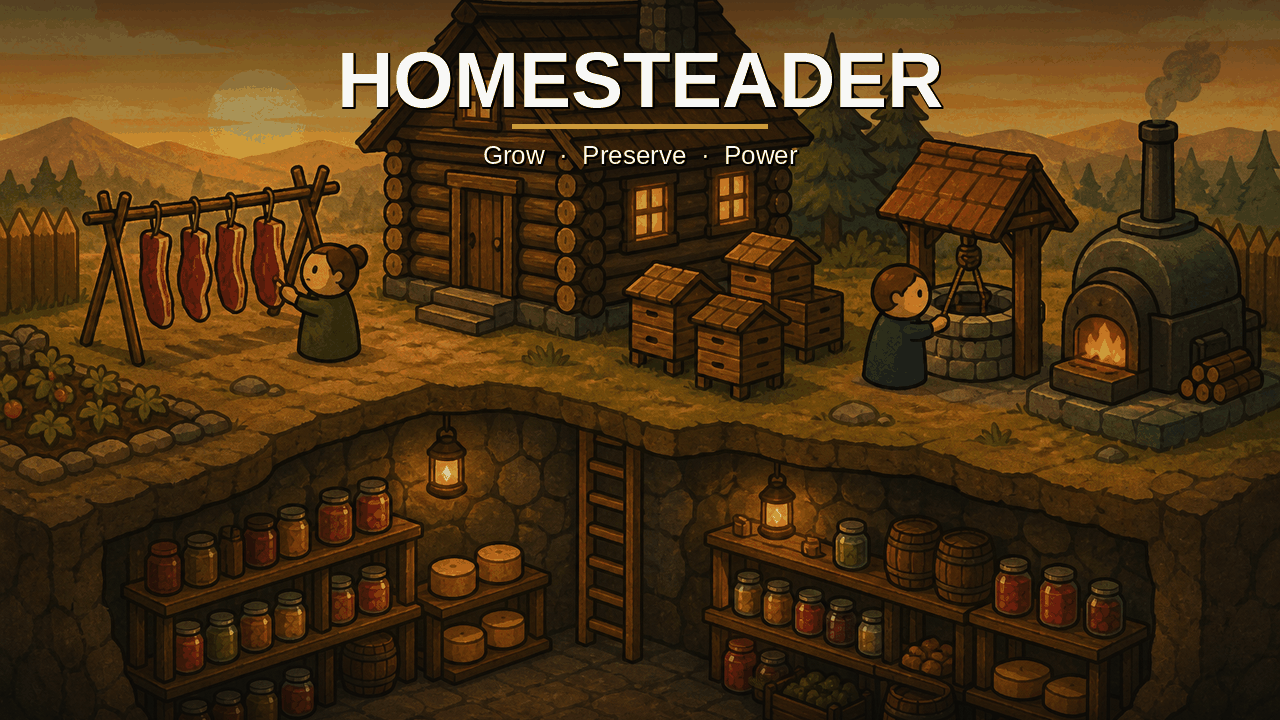
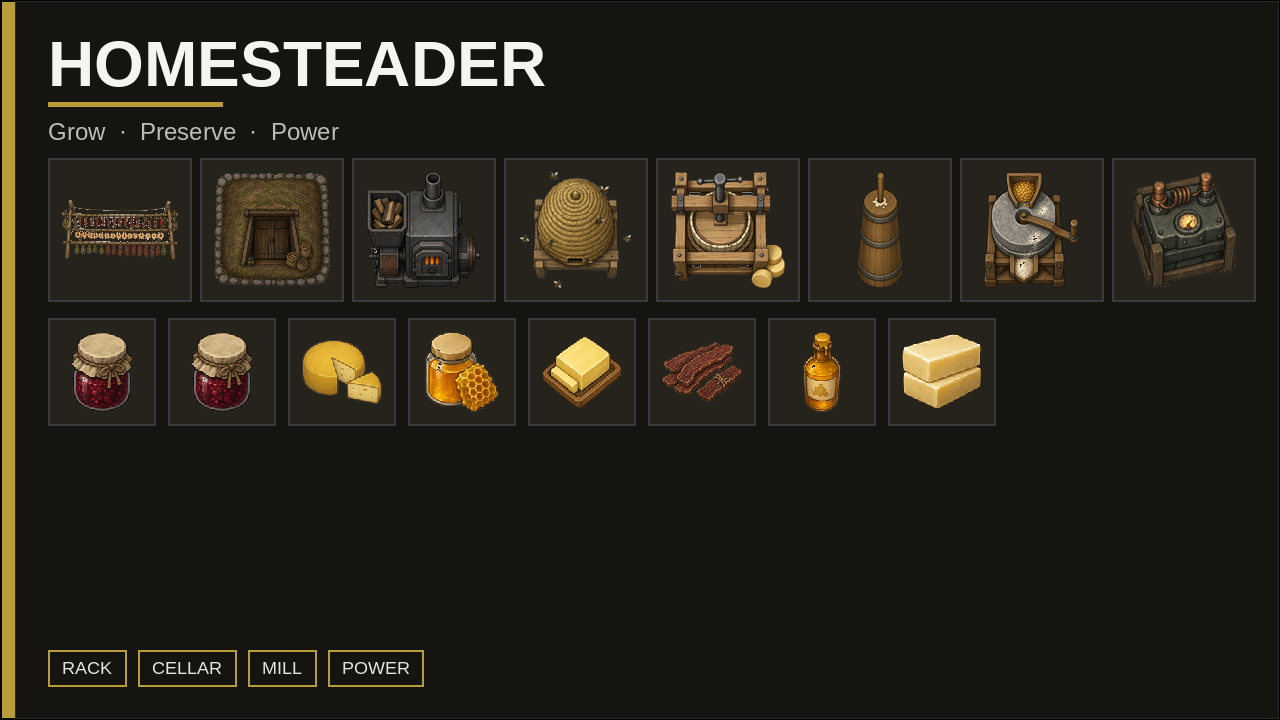
Replace painted workshop previews with graphic sprite cards
Drop the cinematic scenes. Homesteader, Stormproof, and Strata now
use in-game building sprites on a flat architect-tab card. Date Night
is a drawn Schedule selector plus 24-hour row. Nemesis, Deep Colony,
Azrael, and Living World use hard geometry and real sprites. All stay
under Steam's 1 MB cap.

diff --git a/CHANGELOG.md b/CHANGELOG.md
@@ -4,7 +4,7 @@ Short repo highlights. Detailed notes live in each mod's own `CHANGELOG.md`.
 
 ## Unreleased
 
-- **Workshop previews** (`preview-redraw-v1`) — new `About/Preview.png` for Homesteader, Azrael, Stormproof, Strata, Nemesis, Deep Colony, Date Night, and Living World. Scene art plus real type (no fake UI titles); each file stays under Steam's 1 MB cap. Docs hub cards synced.
+- **Workshop previews** (`preview-redraw-v2`) — `About/Preview.png` for Homesteader, Azrael, Stormproof, Strata, Nemesis, Deep Colony, Date Night, and Living World. Flat architect-menu cards: solid fill, Liberation type, in-game sprites or hard geometry (no painted scenes). Each file stays under Steam's 1 MB cap. Docs hub cards synced.
 - **Date Night rituals** (`ritual-date-v1`) — **1.0.1**. Date / Lovin hours no longer pull pawns out of Ideology rituals. → [DateNight/CHANGELOG.md](DateNight/CHANGELOG.md)
 - **Deep Colony diplomacy** (`diplomacy-compat-v1`) — fail-open Despicable 2 Hero Karma + RimPacts trust on tribute, envoy visits, and family join/defect. → [Deep Colony/CHANGELOG.md](Deep%20Colony/CHANGELOG.md)
 - **Deep Colony last of the line** (`last-of-line-v1`) — **1.5.2**. Message only when the last living colony blood kin dies; "blood kin again" only after that. → [Deep Colony/CHANGELOG.md](Deep%20Colony/CHANGELOG.md)

diff --git a/Nemesis/CHANGELOG.md b/Nemesis/CHANGELOG.md
@@ -8,7 +8,7 @@ Steam Workshop paste: [`About/changelog.txt`](About/changelog.txt).
 
 Player-facing version **1.0.0** (`About.xml` `modVersion`). Startup writes `[Nemesis] v1.0.0 loaded from ...` in Player.log.
 
-- **Workshop preview** (`preview-redraw-v1`) — new `About/Preview.png`: RimWorld-pawn hunter in the rain, cabin asleep, raid on the ridge; clean NEMESIS type (no fake handwritten note). Docs hub card synced. Under Steam's 1 MB cap.
+- **Workshop preview** (`preview-redraw-v2`) — `About/Preview.png` is a flat graphic card: geometric hunter pawn, cabin blocks, no painted rain scene. Docs hub card synced. Under Steam's 1 MB cap.
 - **Fixation after a colonist dies** — uses `MapHeld` (corpse / killer map) so the hunt can still pick a surviving colonist.
 - **Wounded-escape cheat-death** — if `CreateNemesis` no-ops (Rimesis/BFV claim, failed generate), vanilla `Kill` proceeds. Anesthetic is no longer applied during the lethal prefix.
 - **Hunt raids omit the nemesis** — Direct Raid injects the named pawn whenever the hunt is active (not only after the first flee); hunt faction is restored after parking as a world pawn; if the raid group never generated them they spawn at the map edge (Steam Aug 15).

diff --git a/Deep Colony/CHANGELOG.md b/Deep Colony/CHANGELOG.md
@@ -9,7 +9,7 @@ Steam Workshop paste: [`About/changelog.txt`](About/changelog.txt).
 Player-facing version **1.5.2** (`About.xml` `modVersion`). Startup writes `[DeepColony] v1.5.2 build last-of-line-v1` in Player.log.
 
 ### Changed
-- **Workshop preview** (`preview-redraw-v1`) — new `About/Preview.png`: family hall + portrait wall, RimWorld pawns, clean DEEP COLONY type (no fake perk-tree HUD). Docs hub card synced. Under Steam's 1 MB cap.
+- **Workshop preview** (`preview-redraw-v2`) — `About/Preview.png` is a flat card: real perk-tree sprite plus geometric family pawns (no painted hall). Docs hub card synced. Under Steam's 1 MB cap.
 
 ### Added
 - **Despicable 2 / RimPacts diplomacy** (`diplomacy-compat-v1`) — fail-open, no extra dependencies. Tribute, envoy visits, and family join/defect nudge Hero Karma and RimPacts trust when those mods are loaded. Executing kin hits trust only (Despicable already karmas execute/release). Toggle in settings, default on; Soft / Default / Hard do not change this. Empire Refactored is not hooked.

diff --git a/Strata/CHANGELOG.md b/Strata/CHANGELOG.md
@@ -17,7 +17,7 @@ Player-facing version **3.0.1** (`About.xml` `modVersion`). Startup writes `[Str
 - **Shaft dig-down on underground floors** (`shaft-temp-map-guard-v1`) — digging deeper from B1 (or any Strata underground/upper level) no longer falsely triggers the "temporary quest map" guard. The guard still blocks shafts on actual quest sites, Ancient Urban Ruins, and caravan maps.
 
 ### Changed
-- **Workshop preview** (`preview-redraw-v1`) — new `About/Preview.png`: surface + two underground floors, RimWorld pawns, clean STRATA type. Docs hub card and Strata Art package preview synced. Under Steam's 1 MB cap.
+- **Workshop preview** (`preview-redraw-v2`) — `About/Preview.png` is a flat architect-tab card of Strata stairs, elevators, and shaft sprites (nearest-neighbor, no painted scene). Docs hub card and Strata Art package preview synced. Under Steam's 1 MB cap.
 
 ### Added
 - **Deep Shafts scenario** — mountain/shaft showcase start; unlocks Digging Down + Building Up; locks Azrael when Homesteader is loaded.

diff --git a/Homesteader/CHANGELOG.md b/Homesteader/CHANGELOG.md
@@ -9,7 +9,7 @@ Steam Workshop paste: [`About/changelog.txt`](About/changelog.txt).
 Player-facing version **1.0.0** (`About.xml` `modVersion`). Startup writes `[Homesteader] v1.0.0 loaded from ...` in Player.log.
 
 ### Changed
-- **Workshop preview** (`preview-redraw-v1`) — new `About/Preview.png`: homestead + cellar cutaway with RimWorld pawns and clean HOMESTEADER type. Docs hub card synced. Under Steam's 1 MB cap.
+- **Workshop preview** (`preview-redraw-v2`) — `About/Preview.png` is a flat architect-tab card of Homesteader building and item sprites (nearest-neighbor, no painted scene). Docs hub card synced. Under Steam's 1 MB cap.
 
 ### Added
 - **Homestead architect tab** — crates, barrels, pallet, hayloft, cellars, icehouse, springhouse, cistern, and water tower moved off Furniture (Steam Aug 6). Adaptive Storage Framework does not get those buildings (it has no Storage tab); the Homestead tab stays.

diff --git a/DateNight/CHANGELOG.md b/DateNight/CHANGELOG.md
@@ -9,7 +9,7 @@ Steam Workshop paste: [`About/changelog.txt`](About/changelog.txt).
 Player-facing version **1.0.1** (`About.xml` `modVersion`). Startup writes `[DateNight] v1.0.1 loaded from ...` in Player.log.
 
 ### Changed
-- **Workshop preview** (`preview-redraw-v1`) — new `About/Preview.png`: dusk walk + picnic, RimWorld pawn bodies, clean DATE NIGHT type (no fake Schedule UI). Docs hub card synced. ~520 KB, under Steam's 1 MB cap.
+- **Workshop preview** (`preview-redraw-v2`) — `About/Preview.png` is a flat Schedule card: Date / Lovin assignment buttons, a 24-hour row, geometric pawns. No painted scene. Docs hub card synced. Under Steam's 1 MB cap.
 
 ### Fixed
 - **Rituals vs Date hours** (`ritual-date-v1`) — scheduled Date / Lovin no longer InterruptForced pawns out of Ideology rituals (or other lords that forbid long-need jobs). The ceremony can finish; the date waits until it does.

diff --git a/Azrael/CHANGELOG.md b/Azrael/CHANGELOG.md
@@ -9,7 +9,7 @@ Steam Workshop paste: [`About/changelog.txt`](About/changelog.txt).
 Player-facing version **1.0.0** (`About.xml` `modVersion`). Startup writes `[Azrael] v1.0.0 loaded from ...` in Player.log.
 
 ### Changed
-- **Workshop preview** (`preview-redraw-v1`) — new `About/Preview.png` of its own (no longer a copy of Homesteader): storyteller pawn overlooking a homestead. Under Steam's 1 MB cap.
+- **Workshop preview** (`preview-redraw-v2`) — `About/Preview.png` of its own (no longer a Homesteader copy): geometric storyteller pawn plus Homesteader building sprites on a flat card. Under Steam's 1 MB cap.
 
 ### Added
 - **The Deep Homestead** scenario — 3 settlers, farm kit, mountain-foothills opener; forces Azrael; MayRequire Homesteader / Strata start research and rock salt.

diff --git a/Stormproof/CHANGELOG.md b/Stormproof/CHANGELOG.md
@@ -12,7 +12,7 @@ Player-facing version **1.0.0** (`About.xml` `modVersion`). Startup writes `[Sto
 - **Stormfront scenario** — hard-weather showcase start; unlocks storm protection research; locks Azrael when Homesteader is loaded.
 
 ### Changed
-- **Workshop preview** (`preview-redraw-v1`) — new `About/Preview.png`: night grid + lightning rod + shield dome, clean STORMPROOF type. Docs hub card synced. Under Steam's 1 MB cap.
+- **Workshop preview** (`preview-redraw-v2`) — `About/Preview.png` is a flat Power-tab card of Stormproof building sprites (nearest-neighbor, no painted scene). Docs hub card synced. Under Steam's 1 MB cap.
 - **Workshop preview** — compressed `About/Preview.png` (~3.0 MB → ~0.94 MB) via palette PNG so Steam uploads stay under size pressure.
 
 ### Fixed

diff --git a/LivingWorld/CHANGELOG.md b/LivingWorld/CHANGELOG.md
@@ -5,7 +5,7 @@
 Player-facing version **1.0.0** (`About.xml` `modVersion`). Startup writes `[LivingWorld] v1.0.0 loaded from ...` in Player.log.
 
 ### Changed
-- **Workshop preview** (`preview-redraw-v1`) — added `About/Preview.png` (and docs hero): valley with caravan and distant settlements, clean LIVING WORLD type. Under Steam's 1 MB cap.
+- **Workshop preview** (`preview-redraw-v2`) — `About/Preview.png` (and docs hero) is a flat world-map card: hard hill polygons, settlement blocks, geometric caravan. Under Steam's 1 MB cap.
 
 ### Added
 
